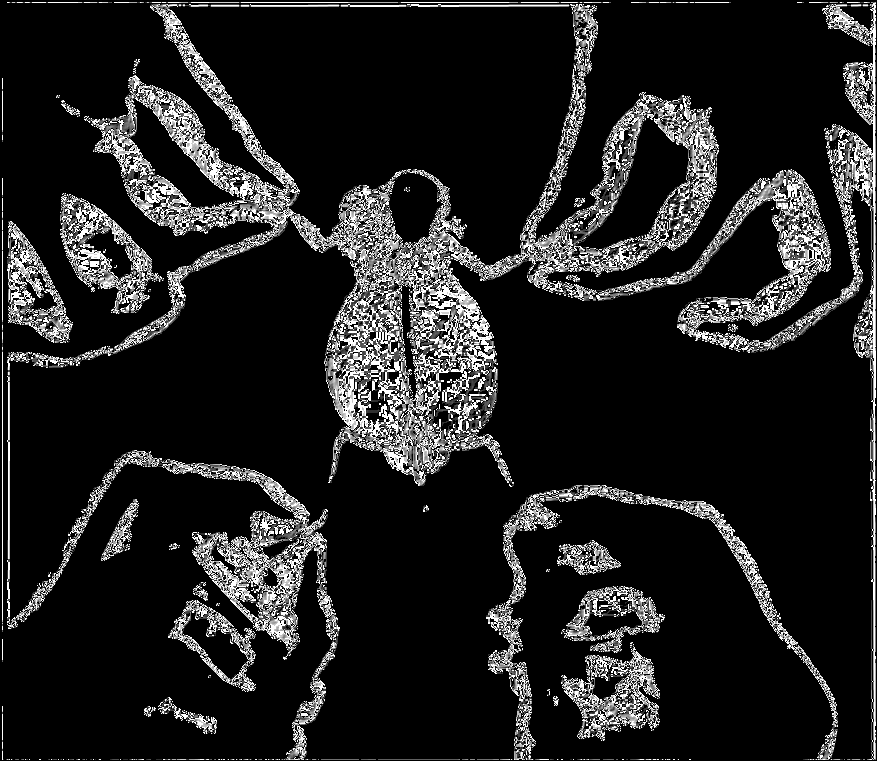
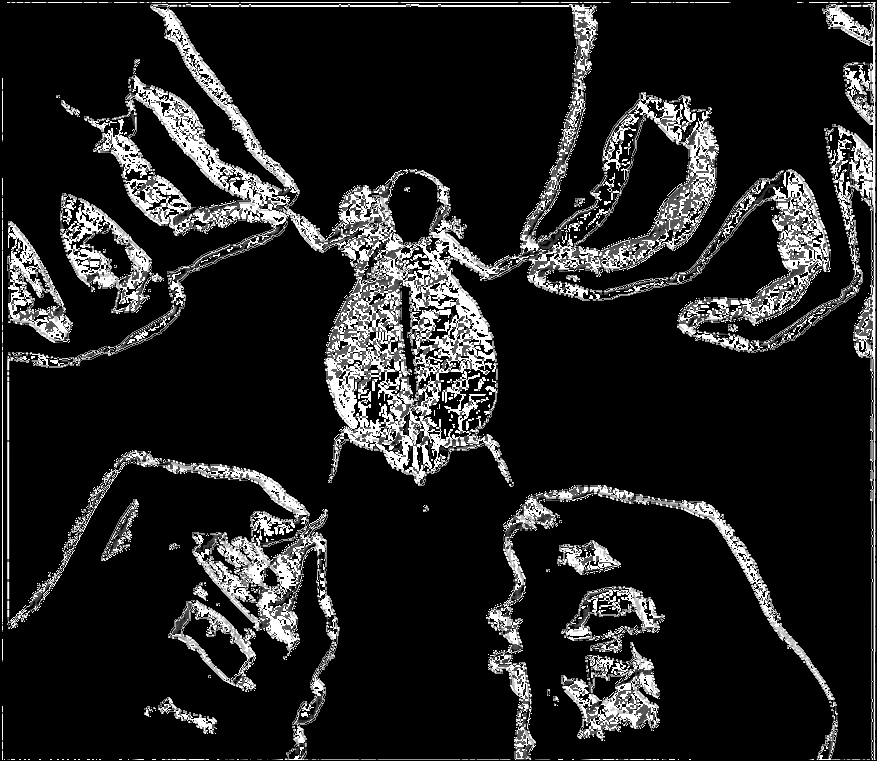
Returned to casual Sobel

diff --git a/work/main.c b/work/main.c
@@ -49,12 +49,19 @@ int main() {
             //Roberts
             //x = MyImage[iw*(i-1)+(j-1)] - MyImage[iw*i+j];
             //y = MyImage[iw*(i-1)+j] - MyImage[iw*i+(j+1)];
-
+            /*
             //Sobel apgrade
             x = 3*MyImage[iw*(i-1)+(j-1)] + 10*MyImage[iw*i+(j-1)] + 3*MyImage[iw*(i+1)+(j-1)];
             x = x - 3*MyImage[iw*(i-1)+(j+1)] - 10*MyImage[iw*i+(j+1)] - 3*MyImage[iw*(i+1)+(j+1)];
             y = 3*MyImage[iw*(i-1)+(j-1)] + 10*MyImage[iw*(i-1)+j] + 3*MyImage[iw*(i-1)+(j+1)];
             y = y - 3*MyImage[iw*(i+1)+(j-1)] - 10*MyImage[iw*(i+1)+j] - 3*MyImage[iw*(i+1)+(j+1)];
+            */
+            //casual Sobel
+            x = MyImage[iw*(i-1)+(j-1)] + 2*MyImage[iw*i+(j-1)] + MyImage[iw*(i+1)+(j-1)];
+            x = x - MyImage[iw*(i-1)+(j+1)] - 2*MyImage[iw*i+(j+1)] - MyImage[iw*(i+1)+(j+1)];
+            y = MyImage[iw*(i-1)+(j-1)] + 2*MyImage[iw*(i-1)+j] + MyImage[iw*(i-1)+(j+1)];
+            y = y - MyImage[iw*(i+1)+(j-1)] - 2*MyImage[iw*(i+1)+j] - MyImage[iw*(i+1)+(j+1)];
+
             s = sqrt(x*x + y*y);
             odata[iw*i+j] = s;
         }
